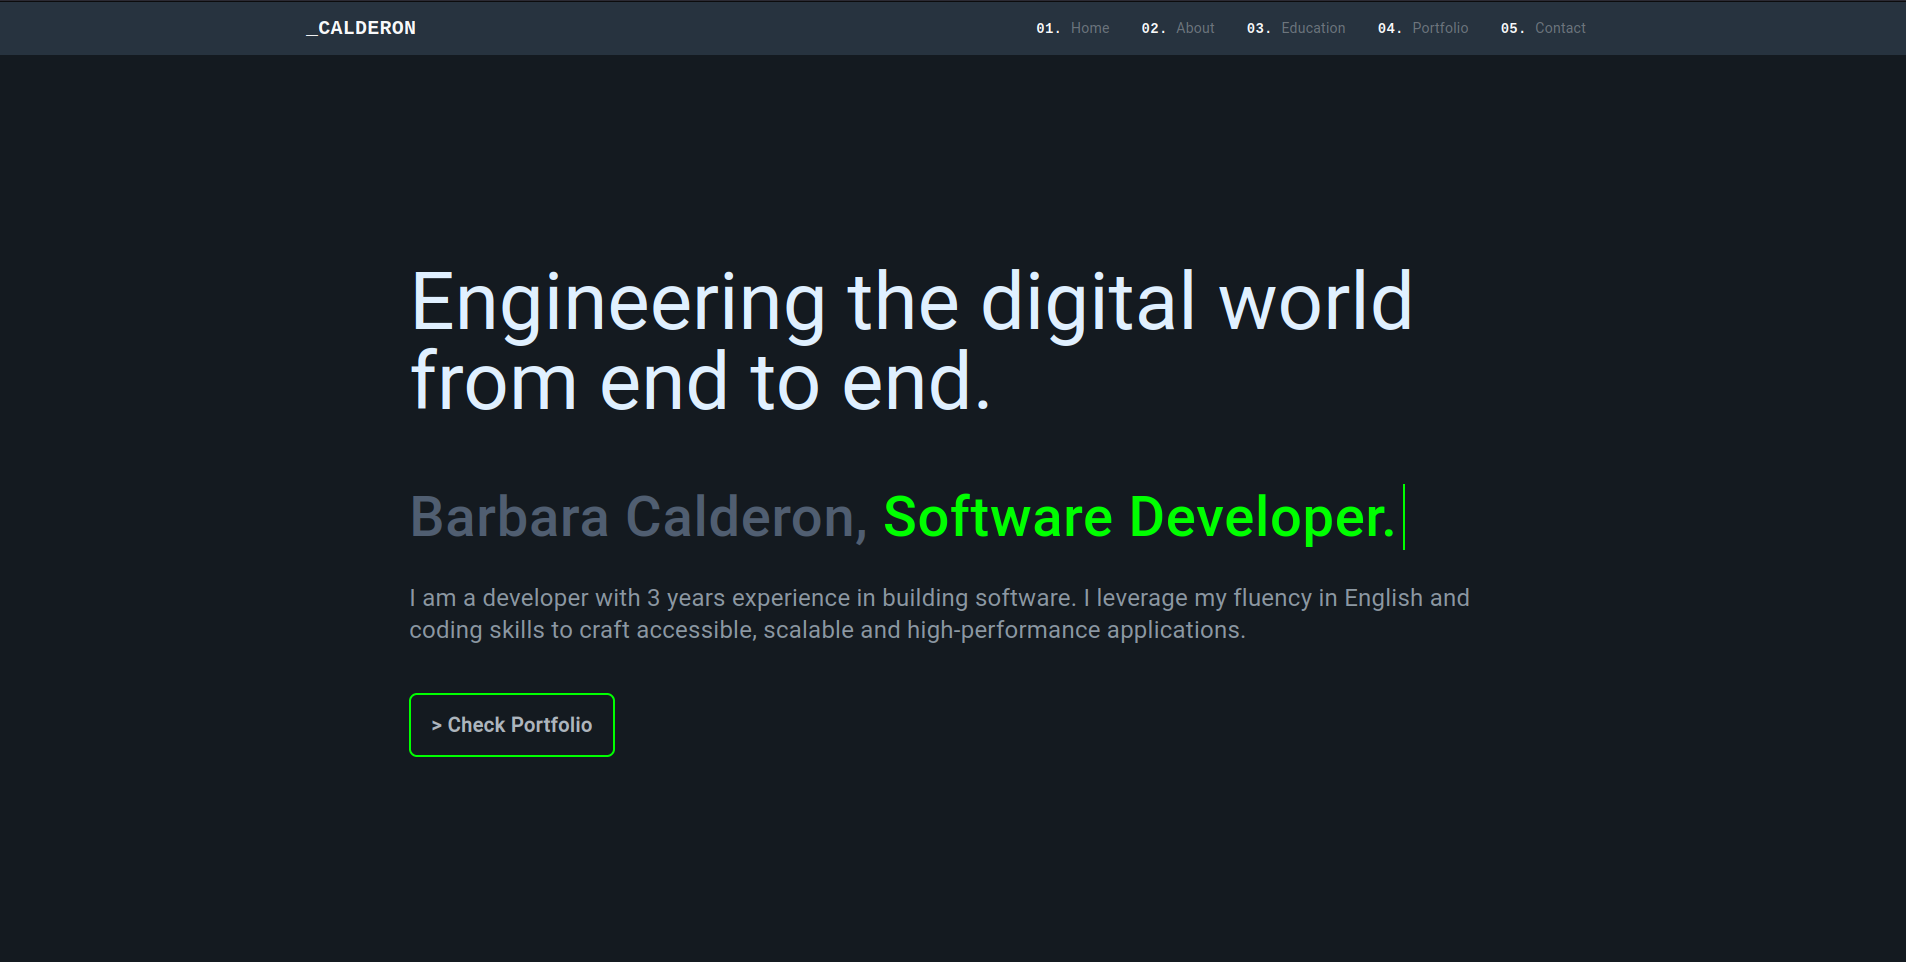
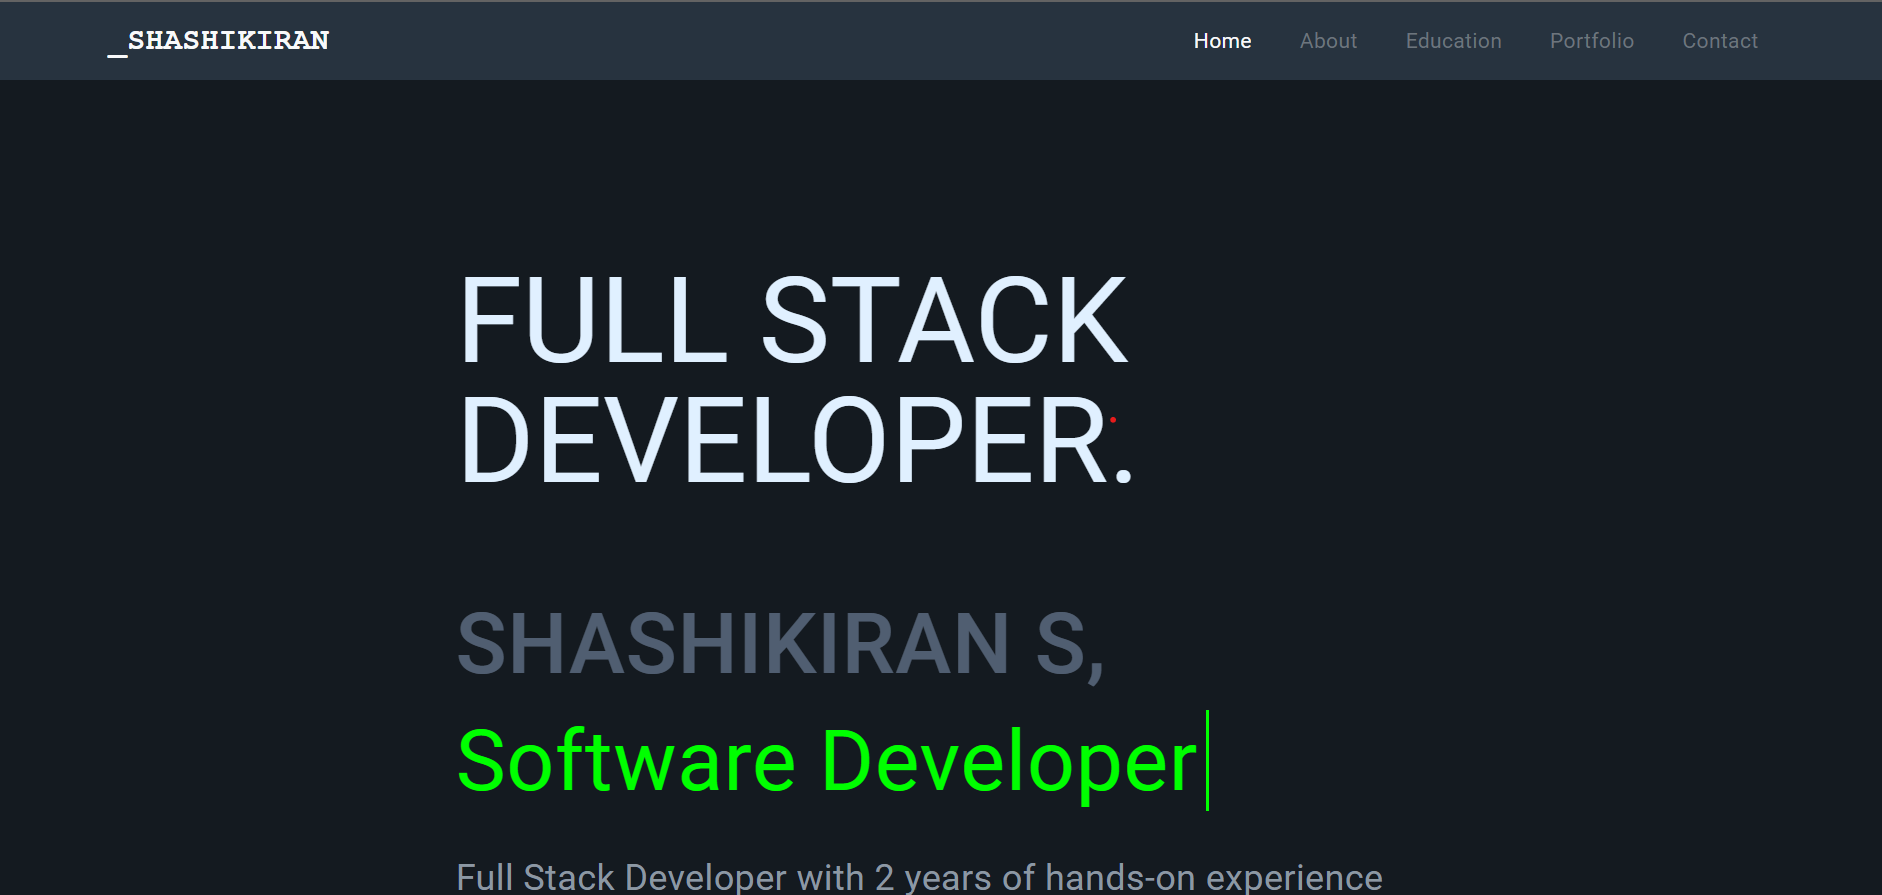
clean up commit

diff --git a/README.md b/README.md
@@ -1,18 +1,17 @@
-# BC | Angular Portfolio App
+# SH | Angular Portfolio App
 
-This is my personal portfolio website built with Angular, Typescript, HTML5, CSS3, Bootstrap, Ngx-Bootstrap, DevIcons and Angular Material. It's currently deployed on the web: [https://angular-portfolio-app-omega.vercel.app/](https://angular-portfolio-app-omega.vercel.app/)
+This is my personal portfolio website built with Angular, Typescript, HTML5, CSS3, Bootstrap, Ngx-Bootstrap, DevIcons and Angular Material. It's currently deployed on the web: [https://shashi-profile.netlify.app/home](https://shashi-profile.netlify.app/home)
 
-![Barbara Calderon's Angular Portfolio App](portfolio.png)
+![Shashikiran's Portfolio](portfolio.png)
 
 This project was generated with [Angular CLI](https://github.com/angular/angular-cli) version 17.3.7.
 
 ## Author
 
-I'm Barbara Calderon, a software developer.
+I'm Shashikiran, a software developer.
 
-- [Github](https://www.github.com/barbaracalderon)
-- [Linkedin](https://www.linkedin.com/in/barbaracalderondev)
-- [Twitter](https://www.x.com/bederoni)
+- [Github](https://github.com/Shashi0620)
+- [Linkedin](https://www.linkedin.com/in/shashikiran-s-a7a8891a1)
 
 ## The Project
 
@@ -31,7 +30,7 @@ The potfolio has sections of home, about, education, portfolio projects and cont
 - Bootstrap
 - Ngx-Bootstrap
 - Dev Icons
-- Vercel
+- Netlify
 - Vite
 
 ## Development server
@@ -60,4 +59,4 @@ To get more help on the Angular CLI use `ng help` or go check out the [Angular C
 
 ## About
 
-This portfolio was designed and developed by myself, Barbara Calderon, using frontend software skills for a dynamic and responsive web application.
+This portfolio was designed and developed by myself, Shashikiran, using frontend software skills for a dynamic and responsive web application.
